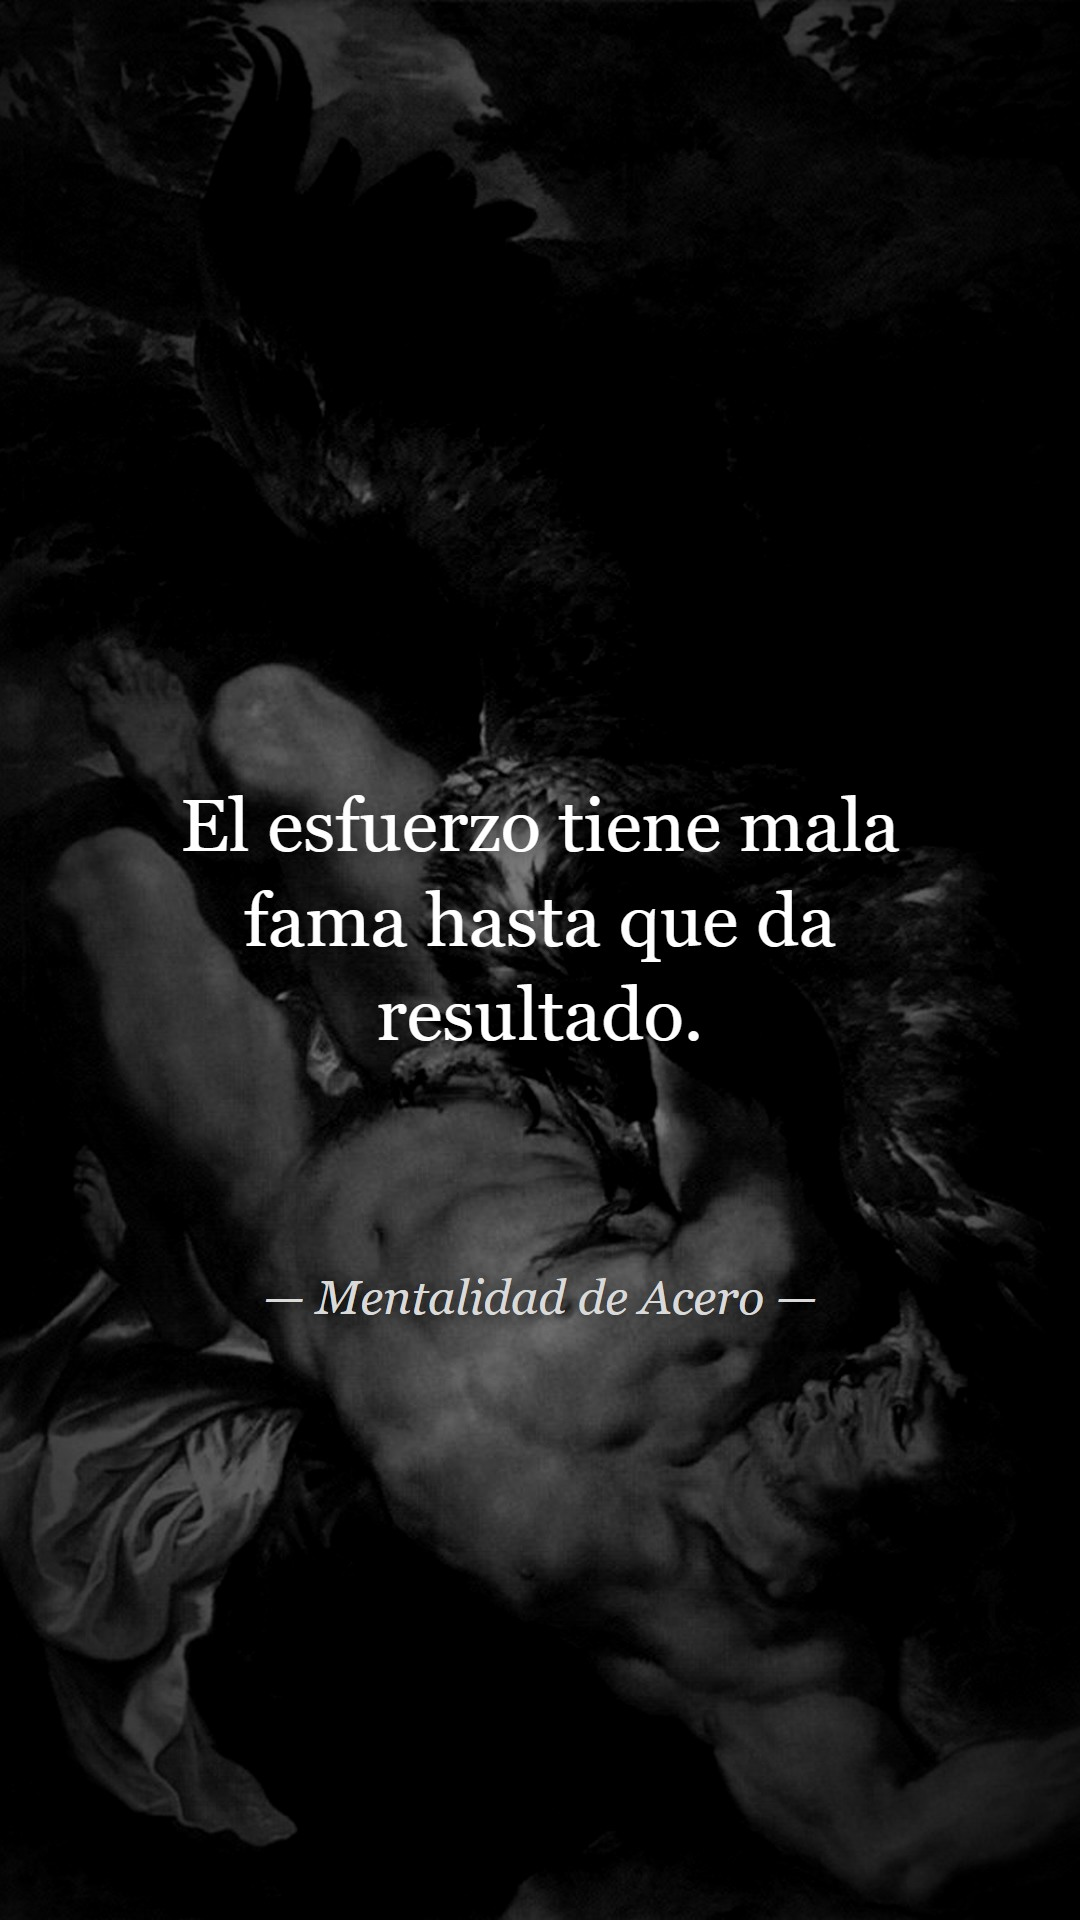
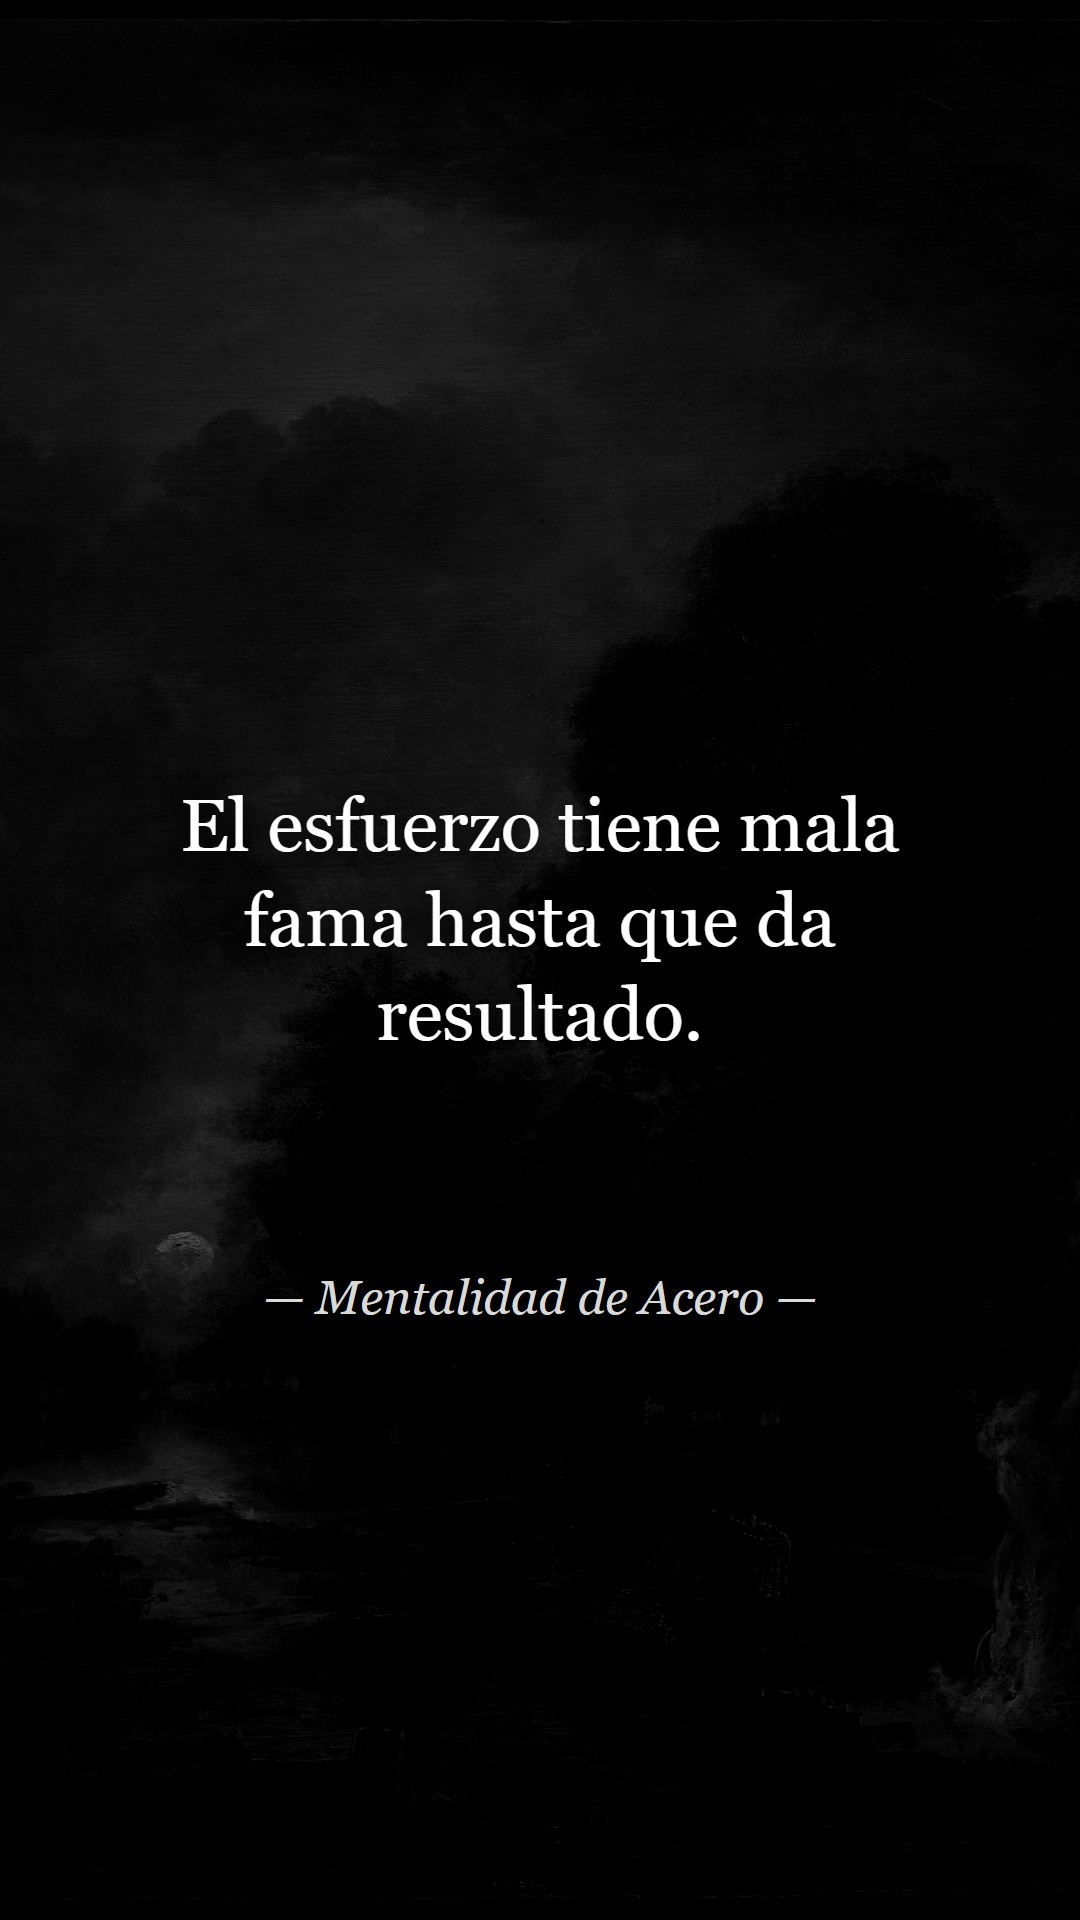
Replace card 3 background in incomodidad post

diff --git a/posts/2026-10-09-incomodidad/cards.js b/posts/2026-10-09-incomodidad/cards.js
@@ -1,7 +1,7 @@
 window.CARDS=[
 {q:"No te falta talento. Te falta incomodidad.",a:"Mentalidad de Acero",bg:"file:///D:/proyectos/nahuel-tiktok-legal/tools/tarjetas/fondos/inc_1.jpg"},
 {q:"Los que ganan no esperan sentirse listos.",a:"Mentalidad de Acero",bg:"file:///D:/proyectos/nahuel-tiktok-legal/tools/tarjetas/fondos/inc_2.jpg"},
-{q:"El esfuerzo tiene mala fama hasta que da resultado.",a:"Mentalidad de Acero",bg:"file:///D:/proyectos/nahuel-tiktok-legal/tools/tarjetas/fondos/inc_3.jpg"},
+{q:"El esfuerzo tiene mala fama hasta que da resultado.",a:"Mentalidad de Acero",bg:"file:///D:/proyectos/nahuel-tiktok-legal/tools/tarjetas/fondos/inc_3b.jpg"},
 {q:"El que aprende más rápido cobra más. Siempre.",a:"Mentalidad de Acero",bg:"file:///D:/proyectos/nahuel-tiktok-legal/tools/tarjetas/fondos/inc_4.jpg"},
 {q:"Invertí en vos lo que otros gastan en distraerse.",a:"Mentalidad de Acero",bg:"file:///D:/proyectos/nahuel-tiktok-legal/tools/tarjetas/fondos/inc_5.jpg"},
 {q:"Mandáselo a alguien que también quiere más.",a:"Mentalidad de Acero",bg:"file:///D:/proyectos/nahuel-tiktok-legal/tools/tarjetas/fondos/inc_6.jpg"}
